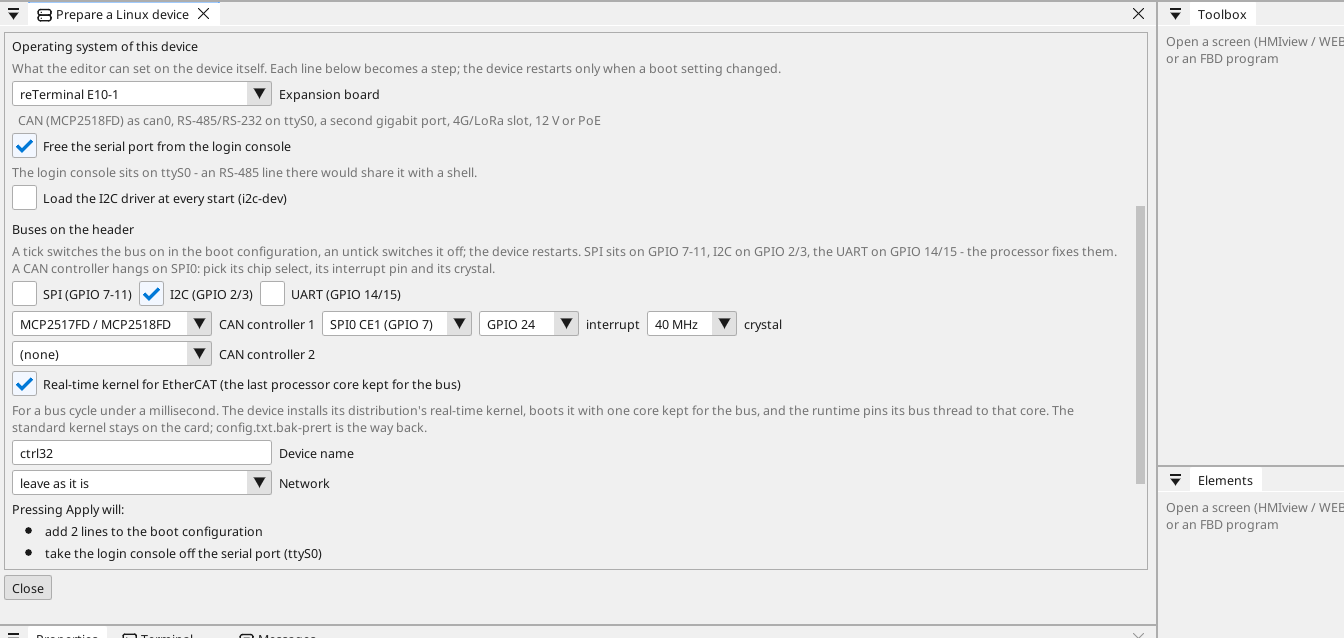
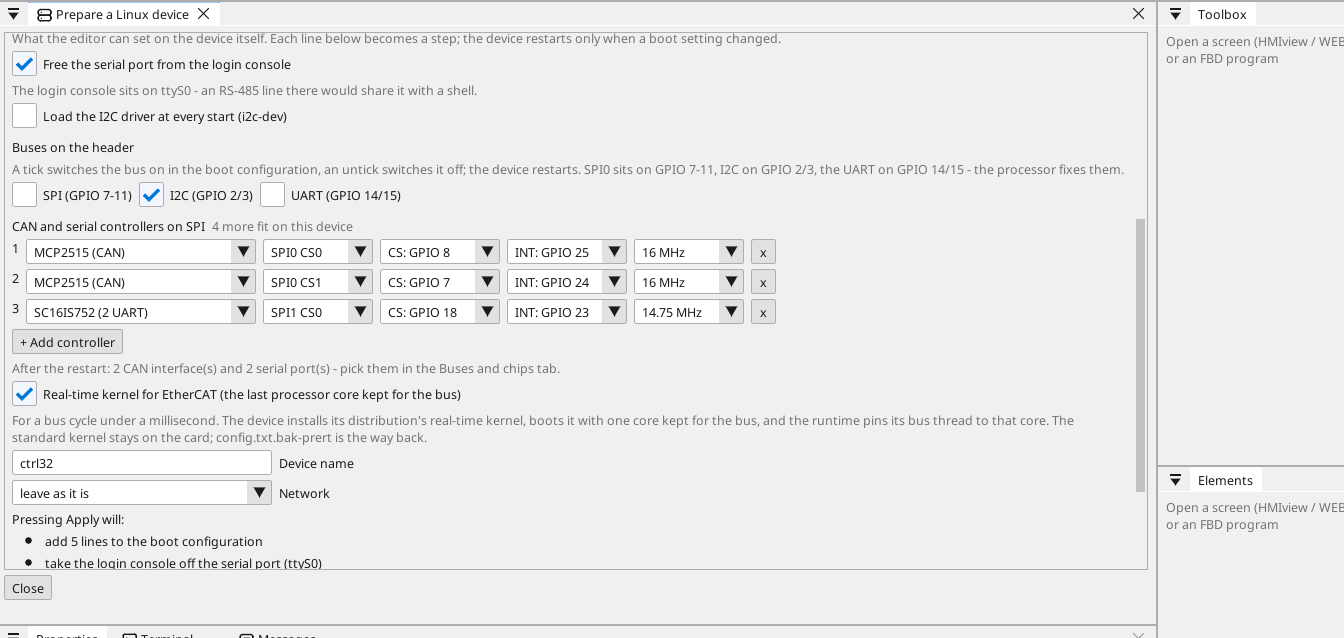
1.04.000: the MaTouch P4 7" and MaTouch Lite S3 3.95" in Supported hardware, the changelog of line 1.04 (both MaTouch panels, the scaled touch, the master heartbeat, fixed PDO layouts, the AC30 EDS, ONLINE without variables, the dashed NC slash, the sorted Messages pane, the on-board chips in the tr

diff --git a/docs/changelog.md b/docs/changelog.md
@@ -8,6 +8,60 @@ Versions are plain numbers in the form `generation.feature.build`:
 the last field counts builds, the middle one grows with new
 capabilities, the first one practically never moves.
 
+## 1.04.000
+
+A new line: every device takes a new runtime (over the network or over
+USB, as always - [Download to the board](deploy.md)), and the editor
+grows the round below.
+
+- **Two Makerfabs MaTouch panels join the hardware catalog**
+  ([Supported hardware](modules.md)): the **MaTouch ESP32-P4 7"** - a
+  1024 x 600 MIPI-DSI glass with capacitive touch, ethernet and WiFi 6 -
+  and the **MaTouch Lite ESP32-S3 3.95"** - a 480 x 320 SPI glass with
+  resistive touch. Each comes with its example project, and every bus
+  (I2C, SPI, serial, CAN, RS-485) is wired on the pins of its connectors;
+  a pin the panel itself uses is refused with its name.
+- **A capacitive touch controller configured for another resolution than
+  its glass** is scaled into the glass, so a touch lands under the finger
+  on the whole screen.
+- **The panel as CANopen master sends its own heartbeat** when the bus
+  page asks for it (node-ID and period in ms). A drive set to watch it
+  stops with a fault when the panel goes silent, instead of running on
+  with the last command.
+- **A CANopen device with a fixed PDO layout** - a safety controller's
+  fieldbus module, many I/O modules - is marked in its window ("The device
+  has a fixed PDO layout"): the panel only reads its frames and writes no
+  mapping, so the cyclic traffic of the other devices on the bus goes on.
+- **The Parker AC30 CANopen EDS files** are in the device library.
+- **ONLINE with a project that has no variables** works; before, it said
+  "the panel runs a different program" however often it was downloaded.
+- **ONLINE, a normally closed contact that does not conduct** draws its
+  slash dashed like its bars.
+- **The Messages pane sorts what the editor says** into errors (red),
+  warnings (orange) and information, with a switch and a count for each:
+  a refusal such as "A VAR with that name already exists" is a warning.
+- **The chips soldered on a board** show in the tree under the name they
+  get in the project, without a note behind them; a tooltip says a click
+  adds them, and why the on-board memory is grey.
+- **The ladder bar's P, N, S and R** sit in the middle of their buttons.
+- **A Linux device's page is in tabs** - Network, Buses and chips,
+  Display, Operating system, Clock and power - under one header with the
+  device's address, a login and **Read from the device**. Every tab
+  starts from what the device uses now and writes only its own settings;
+  before, writing the buses from an untouched page cleared them on the
+  device ([The Linux runtime](linux-runtime.md#the-device-from-the-editor)).
+- **CAN and serial controllers on SPI as a list** - any mix of MCP2515,
+  MCP2517/2518 and SC16IS750/752 on every SPI bus the device has, each
+  with its own chip-select pin; the editor counts how many more fit and
+  sets them up on the device
+  ([Setting up a Linux device](linux-setup.md#the-operating-system-from-the-editor)).
+- **The Terminal is this PC's command prompt** too: `cmd`, or no port,
+  in its port field; the arrow keys bring earlier lines back and Ctrl+C
+  stops what runs. The Terminal and Messages tabs sit beside Properties
+  at every start.
+- **An unbound output of a block inside a ladder rung** (the elapsed time
+  of a TON) is blank now, like the outputs of a block on its own rung.
+
 ## 1.03.000
 
 A new line: every device takes a new runtime (over the network or over

diff --git a/docs/linux-setup.md b/docs/linux-setup.md
@@ -201,14 +201,26 @@ on the device itself:
 - the **network**: an interface, then *leave as it is*, *automatic
   address (DHCP)* or a *fixed address* with prefix, gateway and DNS
 - **Buses on the header** - SPI, I2C and the UART as ticks (their pins
-  are the processor's: SPI on GPIO 7-11, I2C on GPIO 2/3, the UART on
-  GPIO 14/15), and up to two **CAN controllers on SPI0**: the chip
-  (MCP2515, or MCP2517FD/MCP2518FD), its chip select (CE0 on GPIO 8 or
-  CE1 on GPIO 7), its interrupt pin among the header's free GPIOs and
-  its crystal. The ticks start as the device's boot configuration says;
-  a tick adds its line, an untick removes it, and the device restarts.
-  The controller then appears as `can0` in the scan on the device's bus
-  page, where the project picks it
+  are the processor's: SPI0 on GPIO 7-11, I2C on GPIO 2/3, the UART on
+  GPIO 14/15). The ticks start as the device's boot configuration says;
+  a tick adds its line, an untick removes it, and the device restarts
+- **CAN and serial controllers on SPI** - a list: **+ Add controller**
+  takes the next free chip select, and any mix fits - four CAN
+  controllers, two CAN and two serial, and so on. Each row picks the chip
+  (MCP2515, MCP2517FD/MCP2518FD, SC16IS750 with one serial port or
+  SC16IS752 with two), the SPI bus and chip select (SPI0 and SPI1 on a
+  Raspberry Pi 3; SPI0, SPI1 and SPI3 to SPI6 on a Pi 4 or a CM4), the
+  **chip-select pin** (the bus's own or any GPIO of the header), the
+  interrupt pin and the crystal. The editor counts how many more fit on
+  this device: a bus whose pins I2C, the UART or another bus already use
+  drops out, and a chip select an expansion board holds (the reTerminal
+  E10-1's own CAN controller) shows as taken. Two functions on one pin,
+  or a chip whose driver the device's kernel lacks, are refused in words
+  before anything is written. After the restart every CAN controller is
+  a CAN interface (`can0`, `can1`, ...) and every serial controller one or
+  two serial ports, ready to pick in the **Buses and chips** tab of the
+  device's board page. A device with CAN of its own on the board (the
+  STM32MP1) uses that one
 - **Real-time kernel for EtherCAT** - one tick, for a bus cycle under a
   millisecond. The editor installs the distribution's real-time kernel
   for the device's processor (and its headers where a display driver has

diff --git a/docs/modules.md b/docs/modules.md
@@ -119,7 +119,7 @@ the catalog boards built on it.
 | ESP32-S3-WROOM-1-N16 | 16 MB (quad) | - | Standard | LaskaKit ESP32-S3-DEVKit, S3 CAN setup, S3 SSD1963 setup |  |
 | ESP32-S3-WROOM-1-N16R16VA | 16 MB (quad) | 16 MB (octal) | Standard |  |  |
 | ESP32-S3-WROOM-1-N16R2 | 16 MB (quad) | 2 MB (quad) | - |  | octal PSRAM only |
-| ESP32-S3-WROOM-1-N16R8 | 16 MB | 8 MB (octal) | Standard | ESP32-S3-DevKitC-1 (N16R8), Makerfabs Energy Meter, inoHMI32, inoHMI43, stepHMI32.4, stepHMI32.5 |  |
+| ESP32-S3-WROOM-1-N16R8 | 16 MB | 8 MB (octal) | Standard | ESP32-S3-DevKitC-1 (N16R8), MaTouch Lite ESP32-S3 3.95", Makerfabs Energy Meter, inoHMI32, inoHMI43, stepHMI32.4, stepHMI32.5 |  |
 | ESP32-S3-WROOM-1-N8 | 8 MB (quad) | - | Standard | M5Stack StamPLC, S3-DevKitC-1 WEBview setup |  |
 | ESP32-S3-WROOM-1-N8R2 | 8 MB (quad) | 2 MB (quad) | - |  | octal PSRAM only |
 | ESP32-S3-WROOM-1-N8R8 | 8 MB | 8 MB (octal) | Standard | Olimex ESP32-S3-DevKit-LiPo |  |
@@ -135,7 +135,7 @@ the catalog boards built on it.
 
 | Module | Flash | PSRAM | Size | Boards on it | Note |
 |:---|:---|:---|:---|:---|:---|
-| ESP32-P4NRW32 | 16 MB | 32 MB (hex) | Standard | ESP32-P4-NANO, Olimex ESP32-P4-DevKit |  |
+| ESP32-P4NRW32 | 16 MB | 32 MB (hex) | Standard | ESP32-P4-NANO, MaTouch ESP32-P4 7", Olimex ESP32-P4-DevKit |  |
 
 ## Boards
 
@@ -172,6 +172,8 @@ the catalog boards built on it.
 | Makerfabs Energy Meter | ESP32-S3 | - | - | yes | - | - | Standard | 2 |
 | Makerfabs Weather Station | ESP32 | - | - | yes | - | - | Compact | 2 |
 | Makerfabs WiFi AC Dimmer Switch | ESP32 | - | - | yes | - | - | Compact | 2 |
+| MaTouch ESP32-P4 7" | ESP32-P4 | 1024 x 600 | yes | yes | yes | yes | Standard | 2 |
+| MaTouch Lite ESP32-S3 3.95" | ESP32-S3 | 320 x 480 | - | yes | yes | yes | Standard | 2 |
 | Olimex ESP32-DevKit-LiPo | ESP32 | - | - | yes | - | - | Compact | 2 |
 | Olimex ESP32-EVB | ESP32 | 240 x 320 | yes | yes | yes | - | Compact | 1 |
 | Olimex ESP32-GATEWAY | ESP32 | - | yes | yes | - | - | Compact | 2 |

diff --git a/docs/linux-runtime.md b/docs/linux-runtime.md
@@ -50,13 +50,32 @@ panel it stays exactly as it always was.
 
 ---
 
-## The device's network, from the editor
+## The device, from the editor
 
-On the board page, a Linux target's **Device network** section talks
-to the *running* device: join a WiFi network, switch the ethernet
-between DHCP and a static address. The device applies it through its
-own network manager and its answer shows right there — including a
-refusal, when it has no manager to apply with.
+On the board page of a Linux target the device has its own part: its
+address, a login for its operating system, and **Read from the device**,
+which asks the device what it has and what it uses now. Below it, one tab
+per subject - every tab starts from the device's own values, and its
+**Write** changes only that tab's settings:
+
+![The Linux device on the board page: the header with Read from the device, the Buses and chips tab started from what the device uses](img/lx-device-buses.webp){: .sb-center}
+
+- **Network** - join a WiFi network, switch the ethernet between DHCP
+  and a static address; the device applies it through its own network
+  manager and answers right there.
+- **Buses and chips** - which serial port is each RS-485 line, which
+  interface each CAN bus, the EtherCAT port, the I2C bus and the SPI
+  chip selects of the project's chips; the lists offer only what the
+  device really has.
+- **Display** - how the glass is mounted (the turn) and pixel-exact
+  drawing.
+- **Operating system** - the settings that need the device's
+  administrator login: the buses on the header, CAN and serial
+  controllers on SPI, the real-time kernel for EtherCAT, the serial
+  console, the device name ([Setting up a Linux
+  device](linux-setup.md#the-operating-system-from-the-editor)).
+- **Clock and power** - the time zone, network time, setting the clock,
+  and the device's supply.
 
 ---
 

diff --git a/docs/tutorial-linux-device.md b/docs/tutorial-linux-device.md
@@ -76,7 +76,7 @@ program. The page is a tab beside the project's own, so the project
 stays at hand while a device installs or restarts, and every line the
 work prints goes to Messages as well.
 
-![The Operating system section: the expansion preset, the serial console, the buses on the header, the real-time kernel, the device name and the network](img/lx-prepare-sys.webp){: .sb-center}
+![The Operating system section: the serial console, the buses on the header, three controllers on SPI, the real-time kernel, the device name](img/lx-prepare-sys.webp){: .sb-center}
 
 - **Expansion board** — pick it and the boot lines it needs are added
   for you. The reTerminal E10-1 brings its CAN interface, its RS-485
@@ -86,11 +86,13 @@ work prints goes to Messages as well.
   RS-485 line for it.
 - **Load the I2C driver at every start** — needed when the project
   reads chips over I2C.
-- **Buses on the header** — SPI, I2C and the UART as ticks, and a CAN
-  controller on SPI0 with its chip select, interrupt pin and crystal;
-  each is a line of the boot configuration the editor adds or removes
-  for you ([Setting up a Linux device](linux-setup.md#the-operating-system-from-the-editor)
-  has the pins).
+- **Buses on the header** — SPI, I2C and the UART as ticks; each is a
+  line of the boot configuration the editor adds or removes for you.
+- **CAN and serial controllers on SPI** — a list, any mix: each row a
+  chip, its SPI bus and chip select, its chip-select pin, interrupt pin
+  and crystal; the editor counts how many more fit
+  ([Setting up a Linux device](linux-setup.md#the-operating-system-from-the-editor)
+  has the details).
 - **Real-time kernel for EtherCAT** — one tick for a bus cycle under a
   millisecond: the distribution's real-time kernel, a core kept for the
   bus, the runtime pinned to it.

diff --git a/docs/online.md b/docs/online.md
@@ -141,6 +141,12 @@ login (the password is never stored). What you type goes to the shell,
 what it answers comes back into the same window, and the prompt is the
 live last line - nothing else has to be opened to work on the device.
 
+**This PC's command prompt.** With `cmd` in the port field, or no port
+chosen at all, the tab is the command prompt of this computer: Enter runs
+a line, the arrow keys up and down bring earlier lines back, and `Ctrl+C`
+(with no text selected) or the **^C** button stops what runs - the same
+keys work in a Linux device's shell.
+
 ## Writing values (force)
 
 The board can hold a value against the program — for checking wiring or
